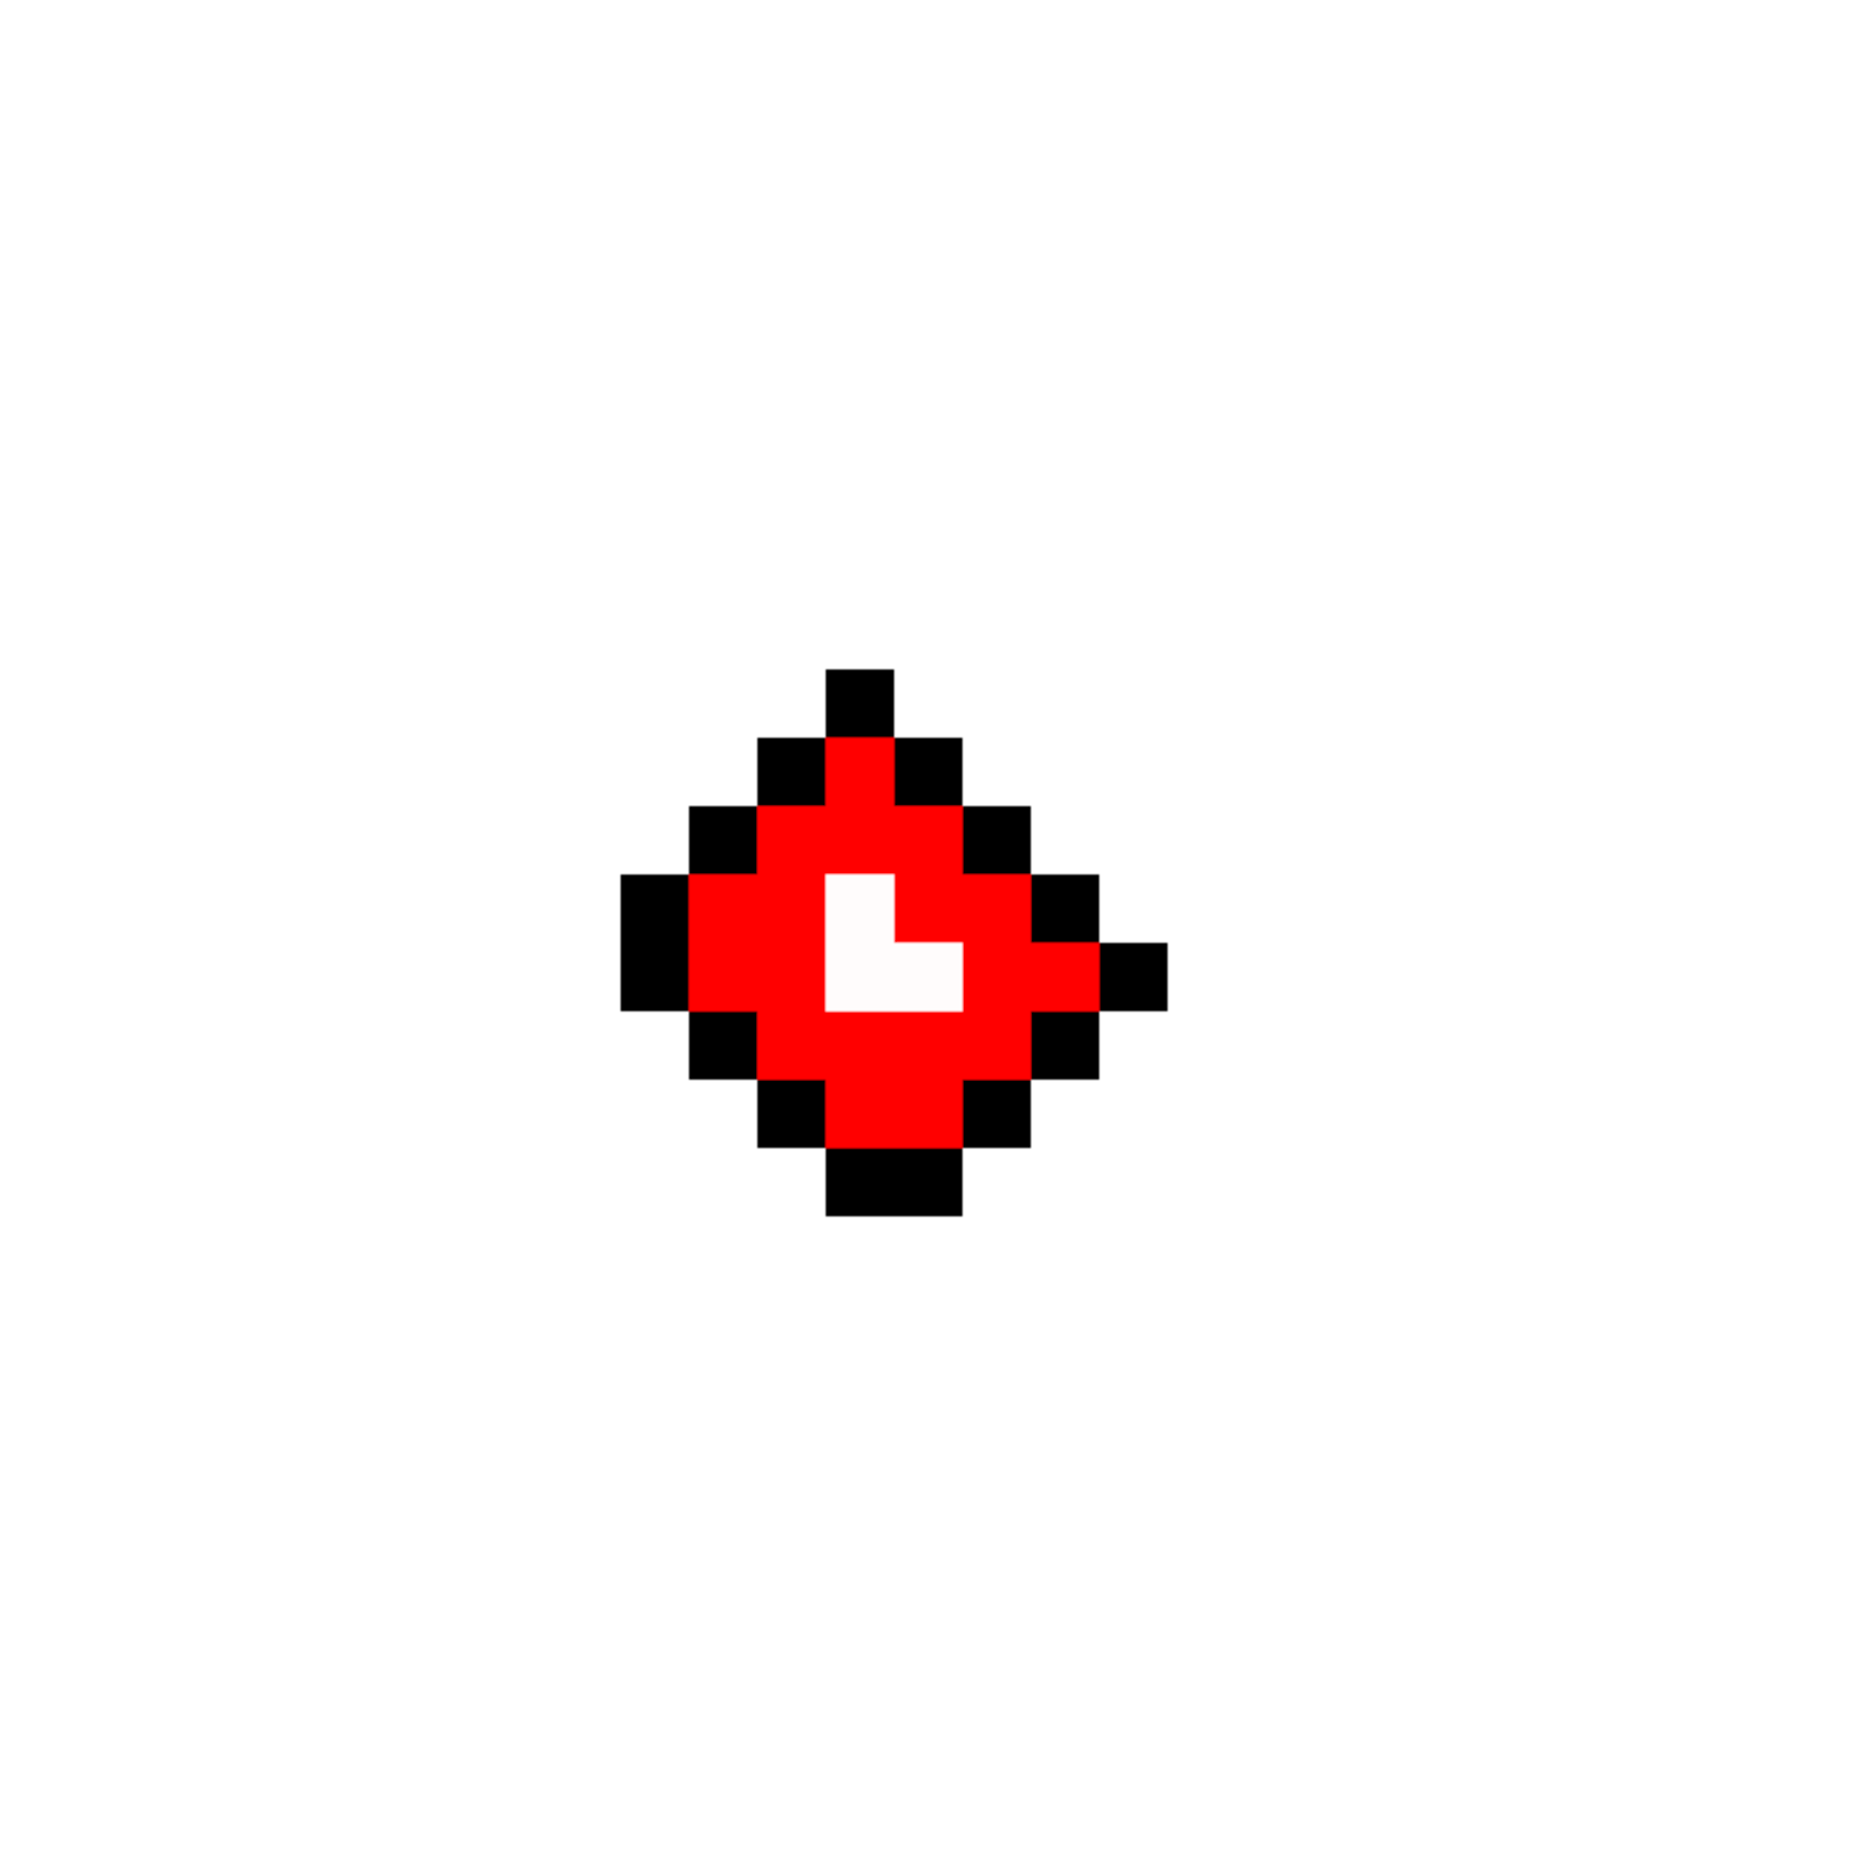
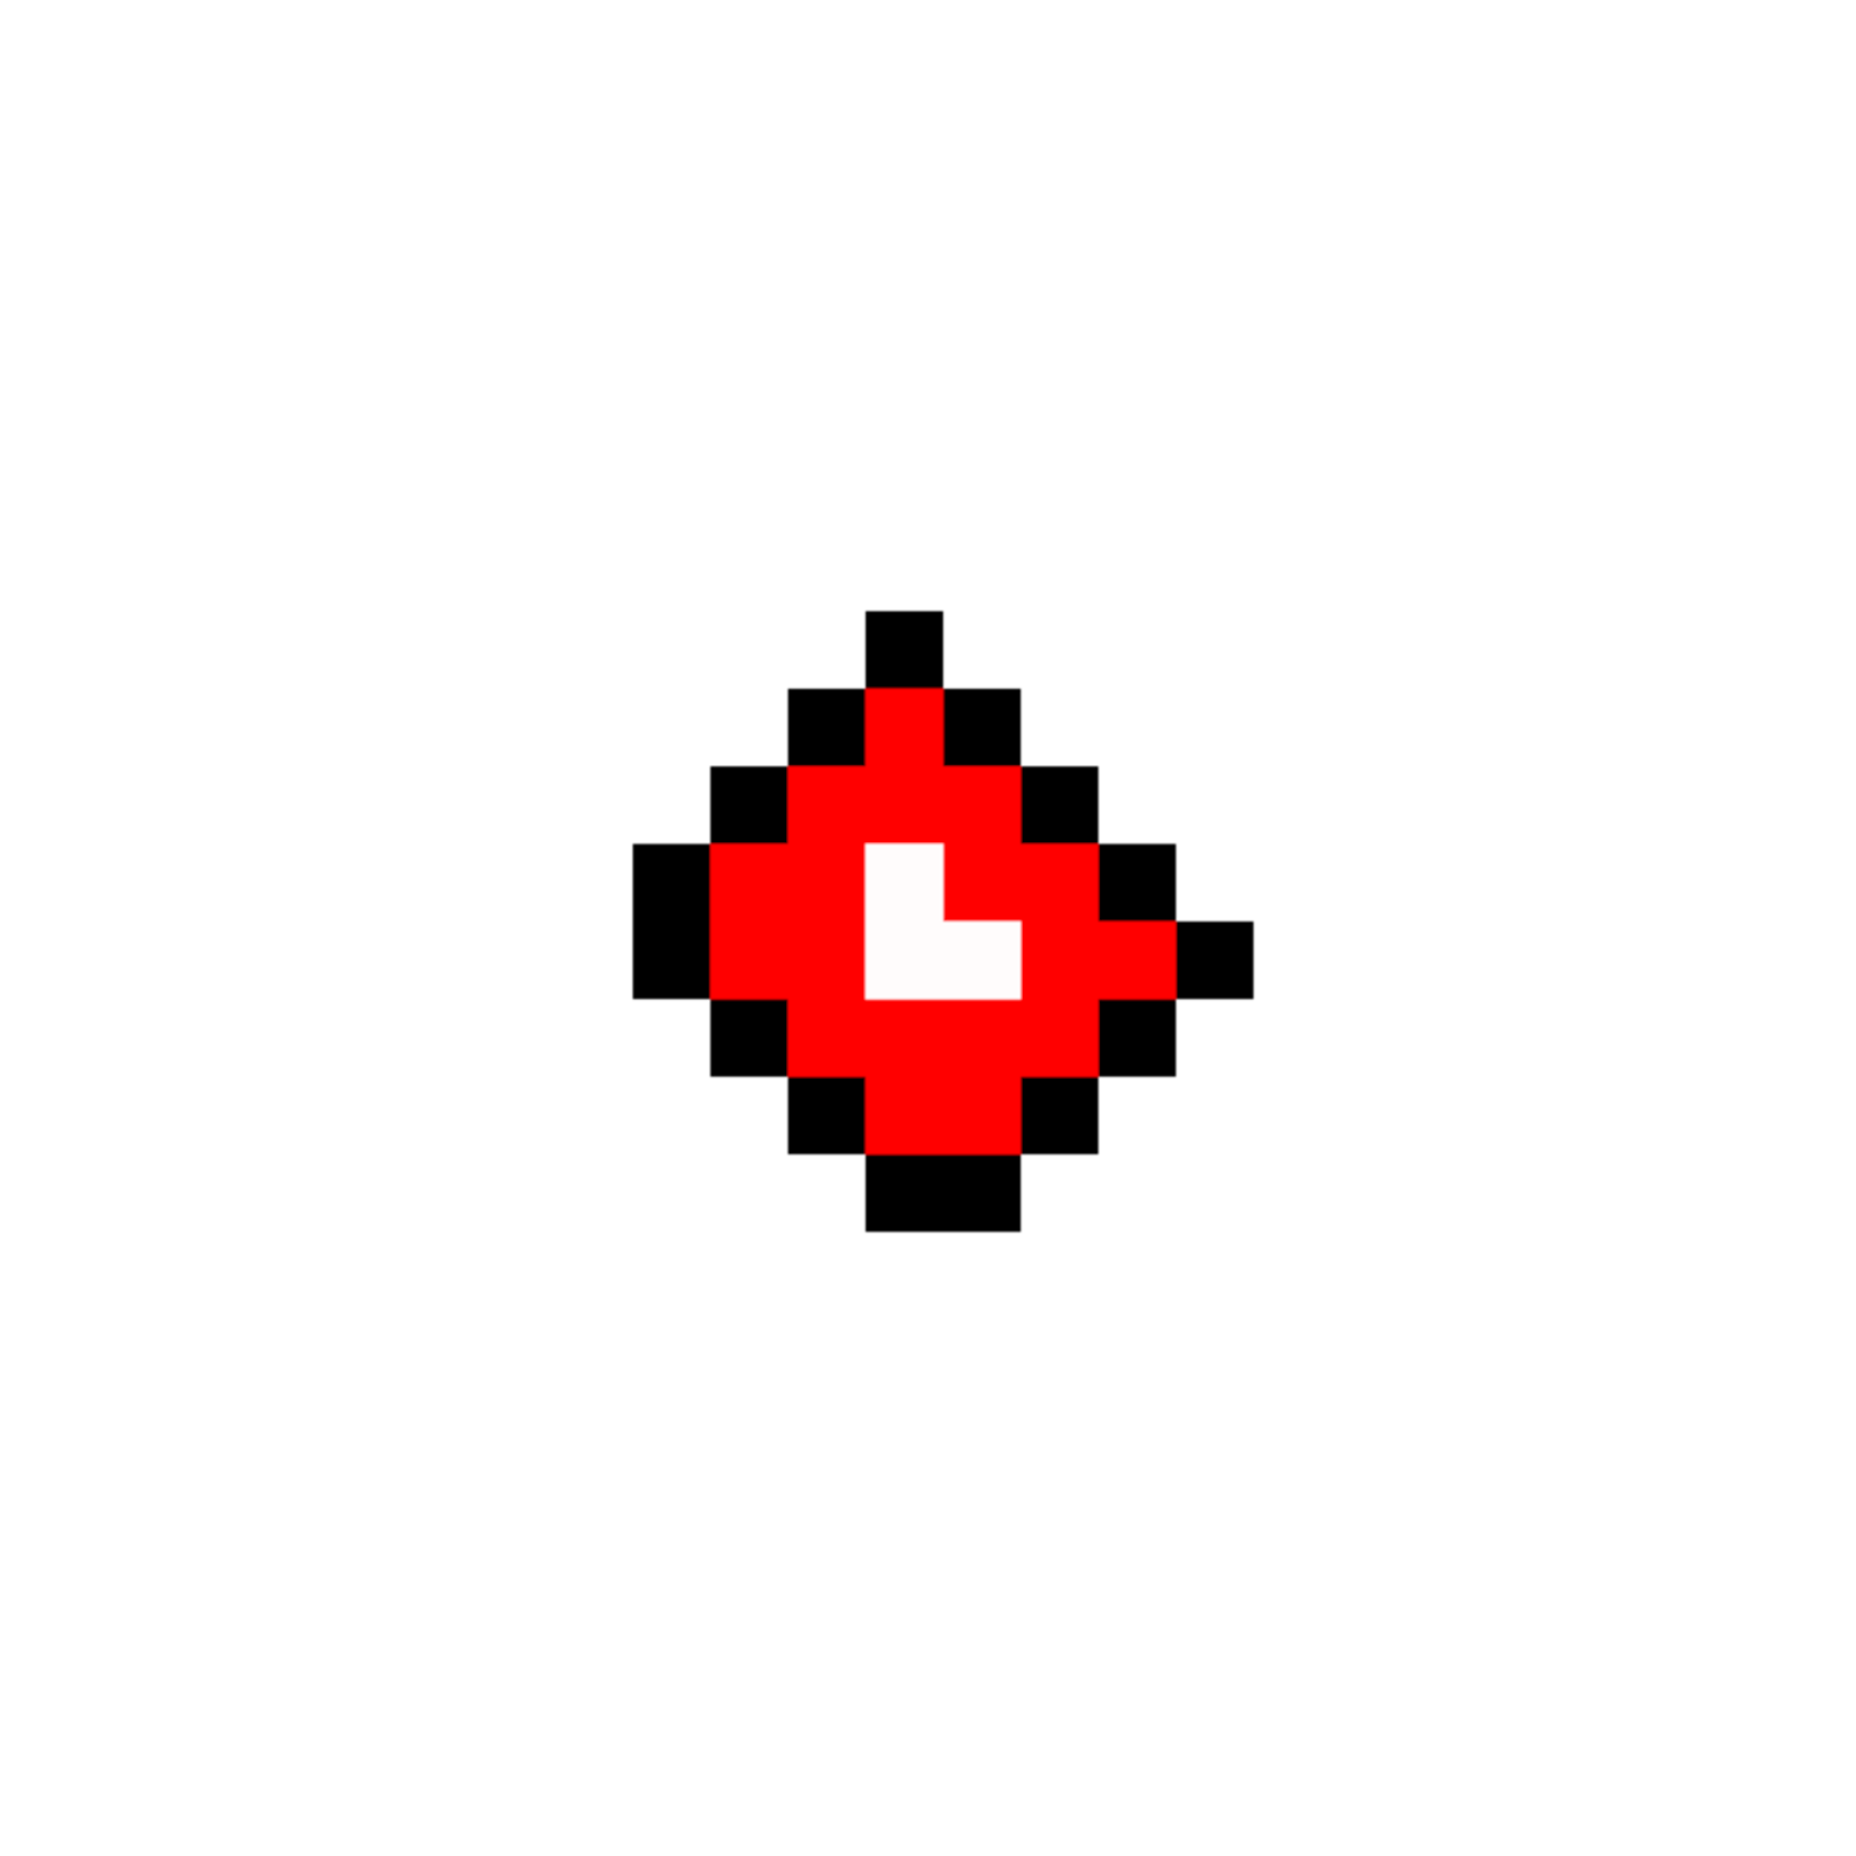
Implementación de mark (tercer personaje) y bug de inmortalidad arreglado

Changed region(s): [[0.3125, 0.3125, 0.6875, 0.6875]]

diff --git a/src/main/java/com/darkforest/darkforest/Controladores/ControllerGameField.java b/src/main/java/com/darkforest/darkforest/Controladores/ControllerGameField.java
@@ -181,6 +181,13 @@ public class ControllerGameField {
                         case 2 -> setItems("3-red-key");
                     }
                 }
+                if(pj.getKeytype().equals("white")) {
+                    switch (countKey) {
+                        case 0 -> setItems("1-white-key");
+                        case 1 -> setItems("2-white-key");
+                        case 2 -> setItems("3-white-key");
+                    }
+                }
                 countKey++;
             }else{
                 statusTable[(int) y][(int) x]=5;
@@ -202,6 +209,13 @@ public class ControllerGameField {
                         case 0 -> setItems("1-red-key");
                         case 1 -> setItems("2-red-key");
                         case 2 -> setItems("3-red-key");
+                    }
+                }
+                if(pj.getKeytype().equals("white")) {
+                    switch (countFalseKey) {
+                        case 0 -> setItems("1-black-key");
+                        case 1 -> setItems("2-black-key");
+                        case 2 -> setItems("3-black-key");
                     }
                 }
                 countFalseKey++;
@@ -234,6 +248,12 @@ public class ControllerGameField {
                     itemsArrayImageView[piece1.getPiece()].setImage(imageKey);
                     itemsArrayImageView[piece2.getPiece()].setImage(null);
                     itemsArrayImageView[piece3.getPiece()].setImage(null);
+                }else if(pj.getKeytype().equals("white")){
+                    fullKey=true;
+                    Image imageKey=getPngImage("full-white-key");
+                    itemsArrayImageView[piece1.getPiece()].setImage(imageKey);
+                    itemsArrayImageView[piece2.getPiece()].setImage(null);
+                    itemsArrayImageView[piece3.getPiece()].setImage(null);
                 }
             }
             if((dyedKey1)&&(dyedKey2)&&(dyedKey3)){
@@ -246,6 +266,12 @@ public class ControllerGameField {
                 }else if(pj.getKeytype().equals("red")){
                     fullKey=true;
                     Image imageKey=getPngImage("full-red-key");
+                    itemsArrayImageView[dyedPiece1.getPiece()].setImage(imageKey);
+                    itemsArrayImageView[dyedPiece2.getPiece()].setImage(null);
+                    itemsArrayImageView[dyedPiece3.getPiece()].setImage(null);
+                }else if(pj.getKeytype().equals("white")){
+                    fullKey=true;
+                    Image imageKey=getPngImage("full-white-key");
                     itemsArrayImageView[dyedPiece1.getPiece()].setImage(imageKey);
                     itemsArrayImageView[dyedPiece2.getPiece()].setImage(null);
                     itemsArrayImageView[dyedPiece3.getPiece()].setImage(null);
@@ -267,6 +293,11 @@ public class ControllerGameField {
                     itemsArrayImageView[pieceFalse1.getPiece()].setImage(imageKey);
                     dyedPiece1=new Item(pieceFalse1.getPiece());
                     dyedKey1=true;
+                }else if(pj.getKeytype().equals("white")){
+                    Image imageKey= getPngImage("1-white-key");
+                    itemsArrayImageView[pieceFalse1.getPiece()].setImage(imageKey);
+                    dyedPiece1=new Item(pieceFalse1.getPiece());
+                    dyedKey1=true;
                 }
             }
             if(falseKey2) {
@@ -280,6 +311,11 @@ public class ControllerGameField {
                     itemsArrayImageView[pieceFalse2.getPiece()].setImage(imageKey);
                     dyedPiece2=new Item(pieceFalse2.getPiece());
                     dyedKey2=true;
+                }else if(pj.getKeytype().equals("white")){
+                    Image imageKey= getPngImage("2-white-key");
+                    itemsArrayImageView[pieceFalse2.getPiece()].setImage(imageKey);
+                    dyedPiece2=new Item(pieceFalse2.getPiece());
+                    dyedKey2=true;
                 }
             }
             if(falseKey3) {
@@ -290,6 +326,11 @@ public class ControllerGameField {
                     dyedKey3=true;
                 }else if(pj.getKeytype().equals("red")){
                     Image imageKey= getPngImage("3-red-key");
+                    itemsArrayImageView[pieceFalse3.getPiece()].setImage(imageKey);
+                    dyedPiece3=new Item(pieceFalse3.getPiece());
+                    dyedKey3=true;
+                }else if(pj.getKeytype().equals("white")){
+                    Image imageKey= getPngImage("3-white-key");
                     itemsArrayImageView[pieceFalse3.getPiece()].setImage(imageKey);
                     dyedPiece3=new Item(pieceFalse3.getPiece());
                     dyedKey3=true;
@@ -465,6 +506,8 @@ public class ControllerGameField {
             setImgvCharacter("src/main/resources/Characters/sir_qovun.png");
         }else if(pj.getName().equals("Darki")){
             setImgvCharacter("src/main/resources/Characters/Darki.png");
+        }else if(pj.getName().equals("Mark")){
+            setImgvCharacter("src/main/resources/Characters/Mark.png");
         }
     }
 
@@ -538,6 +581,7 @@ public class ControllerGameField {
                     imgViewShield1.setImage(null);
                     Image img2=getPngImage("grunt");
                     statusImgView.setImage(img2);
+                    shieldcount--;
                     break;
             }
         }

diff --git a/src/main/java/com/darkforest/darkforest/Controladores/ControllerSetCharacter.java b/src/main/java/com/darkforest/darkforest/Controladores/ControllerSetCharacter.java
@@ -10,6 +10,7 @@ import javafx.scene.control.RadioButton;
 import javafx.scene.control.ToggleGroup;
 import javafx.scene.image.Image;
 import javafx.scene.image.ImageView;
+import javafx.scene.layout.Pane;
 import javafx.stage.Stage;
 
 import java.io.*;
@@ -29,11 +30,18 @@ public class ControllerSetCharacter {
     private File charinfo = new File("src/main/characterinfo/personaje.txt");
     @javafx.fxml.FXML
     private ImageView imgviewDarki;
+    @javafx.fxml.FXML
+    private ImageView imgviewMark;
+    @javafx.fxml.FXML
+    private RadioButton rbMark;
+    @javafx.fxml.FXML
+    private Pane pane;
 
     public void initialize() throws IOException {
         detectCharacter();
         setImgview("src/main/resources/Characters/sir_qovun.png",imgviewSirQovun);
         setImgview("src/main/resources/Characters/Darki.png",imgviewDarki);
+        setImgview("src/main/resources/Characters/Mark.png",imgviewMark);
     }
 
     //Setea la imagen, ahorra código
@@ -54,13 +62,15 @@ public class ControllerSetCharacter {
         FileReader fr = new FileReader(charinfo);
         LineNumberReader lnr = new LineNumberReader(fr);
         String nombre=lnr.readLine();
-        System.out.println(nombre);
         switch (nombre){
             case "Sir Qovun":
                 rbSirQovun.setSelected(true);
                 break;
             case "Darki":
                 rbDarki.setSelected(true);
+                break;
+            case "Mark":
+                rbMark.setSelected(true);
                 break;
         }
     }
@@ -76,7 +86,7 @@ public class ControllerSetCharacter {
             charwritter.write("\n");
             charwritter.write("3");
             charwritter.write("\n");
-            charwritter.write("6");
+            charwritter.write("7");
             charwritter.write("\n");
             charwritter.write("black");
             charwritter.close();
@@ -88,6 +98,15 @@ public class ControllerSetCharacter {
             charwritter.write("7");
             charwritter.write("\n");
             charwritter.write("red");
+            charwritter.close();
+        }else if(rbMark.isSelected()){
+            charwritter.write("Mark");
+            charwritter.write("\n");
+            charwritter.write("1");
+            charwritter.write("\n");
+            charwritter.write("7");
+            charwritter.write("\n");
+            charwritter.write("white");
             charwritter.close();
         }
         FXMLLoader fxmlLoader = new FXMLLoader(MainMenu.class.getResource("main-menu.fxml"));

diff --git a/src/main/java/com/darkforest/darkforest/Controladores/ControllerMainMenu.java b/src/main/java/com/darkforest/darkforest/Controladores/ControllerMainMenu.java
@@ -8,6 +8,7 @@ import javafx.scene.Node;
 import javafx.scene.Scene;
 import javafx.scene.control.Button;
 import javafx.scene.control.Label;
+import javafx.scene.layout.Pane;
 import javafx.scene.text.Text;
 import javafx.stage.Stage;
 
@@ -23,6 +24,12 @@ public class ControllerMainMenu {
     private Button bttCharacter;
     @FXML
     private Text txtTitle;
+    @FXML
+    private Button btHowTo;
+    @FXML
+    private Pane pane;
+    @FXML
+    private Button btAbout;
 
     public void initialize() throws IOException {
         File charinfo=new File("src/main/characterinfo/personaje.txt");
@@ -69,5 +76,13 @@ public class ControllerMainMenu {
         stage.setScene(scene);
         stage.show();
         ((Node)(actionEvent.getSource())).getScene().getWindow().hide();
+    }
+
+    @FXML
+    public void howTo(ActionEvent actionEvent) {
+    }
+
+    @FXML
+    public void about(ActionEvent actionEvent) {
     }
 }
